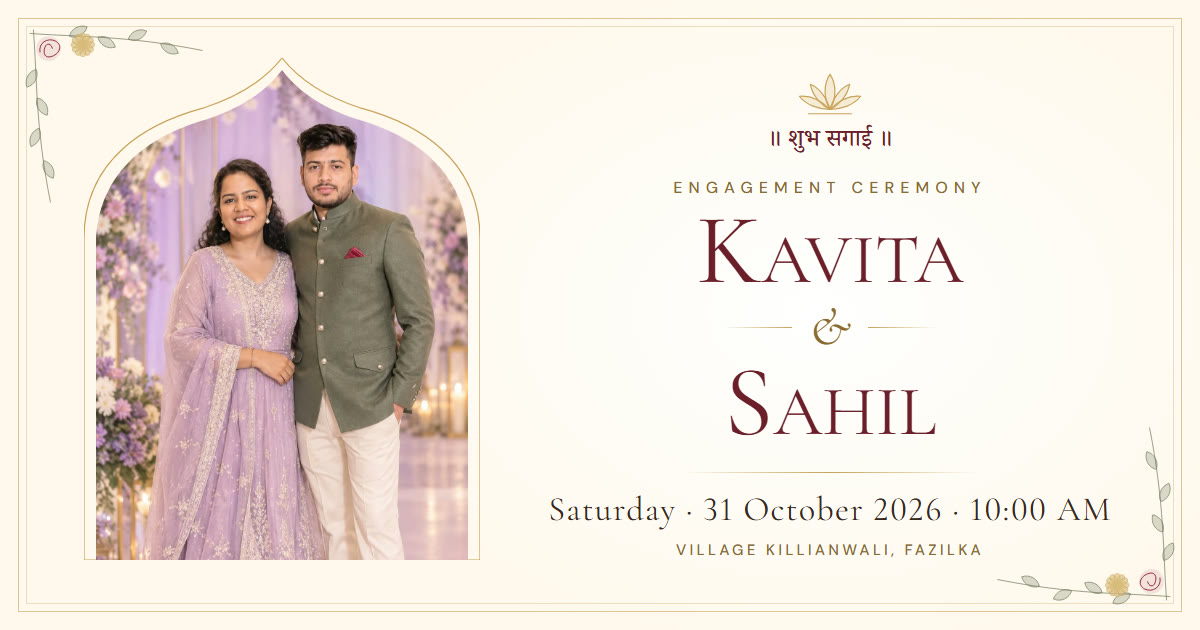
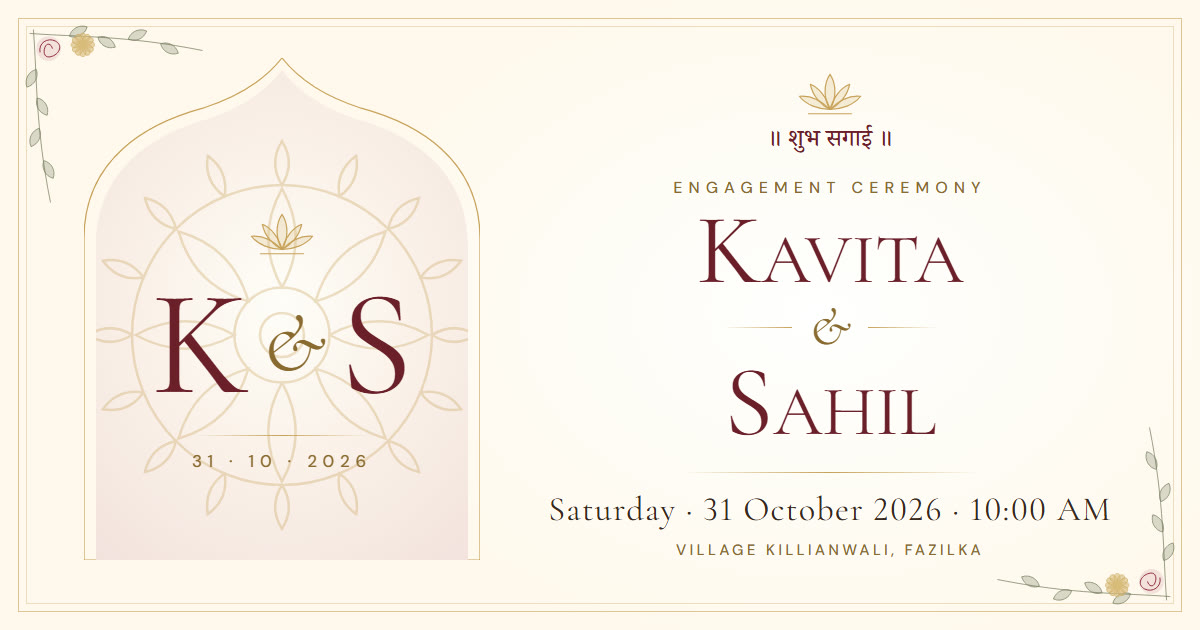
Replace the hero couple photo with a K & S monogram
- Hero arch shows the couple's initials over a slowly turning gold mandala
  with a lotus and the date when hero.image is empty (photo still supported)
- Link-preview image renders the same monogram; hero.jpg removed

Changed region(s): [[0.0617, 0.1206, 0.4008, 0.9048]]

diff --git a/src/components/HeroSection.tsx b/src/components/HeroSection.tsx
@@ -1,6 +1,6 @@
 import { invitation } from "../config/invitation";
 import { getDateParts } from "../lib/event";
-import { ArchFrame, FloralCorner, LeafBranch, Paisley } from "./decor";
+import { ArchFrame, FloralCorner, LeafBranch, Lotus, Mandala, Paisley } from "./decor";
 import { SmartImage } from "./SmartImage";
 
 const d = (ms: number) => ({ "--d": `${ms}ms` }) as React.CSSProperties;
@@ -46,16 +46,33 @@ export function HeroSection() {
           <Paisley className="hero__paisley hero__paisley--l" />
           <Paisley className="hero__paisley hero__paisley--r" />
           <ArchFrame className="hero__arch">
-            <div className="hero__photo">
-              <SmartImage
-                src={hero.image}
-                position={hero.imagePosition}
-                alt={`${bride.name} and ${groom.name}`}
-                label="The couple"
-                priority
-                sizes="(min-width: 1024px) 460px, 80vw"
-              />
-            </div>
+            {hero.image ? (
+              <div className="hero__photo">
+                <SmartImage
+                  src={hero.image}
+                  position={hero.imagePosition}
+                  alt={`${bride.name} and ${groom.name}`}
+                  label="The couple"
+                  priority
+                  sizes="(min-width: 1024px) 460px, 80vw"
+                />
+              </div>
+            ) : (
+              /* No photo: the couple's initials as a monogram, like the crest on a printed card */
+              <div className="monogram" role="img" aria-label={`${bride.name} and ${groom.name}`}>
+                <Mandala className="monogram__mandala" />
+                <Lotus className="monogram__lotus" filled />
+                <span className="monogram__initials" aria-hidden="true">
+                  <span>{bride.name.trim().charAt(0)}</span>
+                  <span className="monogram__amp">&amp;</span>
+                  <span>{groom.name.trim().charAt(0)}</span>
+                </span>
+                <span className="monogram__rule" aria-hidden="true" />
+                <span className="monogram__date" aria-hidden="true">
+                  {date.dayNumber.padStart(2, "0")} · {String(Number(event.date.split("-")[1])).padStart(2, "0")} · {date.year}
+                </span>
+              </div>
+            )}
           </ArchFrame>
           <LeafBranch className="hero__branch" />
         </div>

diff --git a/src/index.css b/src/index.css
@@ -943,6 +943,78 @@ html.is-revealed .hero__arch {
   position: absolute;
   inset: 0;
 }
+/* Monogram shown in the hero arch when there's no couple photo */
+.monogram {
+  position: absolute;
+  inset: 0;
+  display: flex;
+  flex-direction: column;
+  align-items: center;
+  justify-content: center;
+  padding-top: 12%;
+  overflow: hidden;
+  background:
+    var(--jaali),
+    radial-gradient(ellipse 80% 70% at 50% 48%, #fffdf9 0%, #fbf1ea 45%, #f3e1dd 100%);
+}
+.monogram__mandala {
+  position: absolute;
+  top: 54%;
+  left: 50%;
+  width: 118%;
+  height: auto;
+  opacity: 0.32;
+  transform: translate(-50%, -50%);
+  animation: monogram-spin 180s linear infinite;
+}
+@keyframes monogram-spin {
+  to {
+    transform: translate(-50%, -50%) rotate(360deg);
+  }
+}
+.monogram__lotus {
+  position: relative;
+  width: clamp(54px, 16%, 76px);
+  height: auto;
+  margin-bottom: 6px;
+}
+.monogram__initials {
+  position: relative;
+  display: flex;
+  align-items: center;
+  gap: 0.12em;
+  font-family: var(--font-display);
+  font-size: clamp(4.6rem, 21vw, 8rem);
+  font-weight: 400;
+  line-height: 1;
+  color: var(--maroon);
+}
+.monogram__amp {
+  font-size: 0.55em;
+  font-style: italic;
+  color: var(--gold-ink);
+  transform: translateY(0.08em);
+}
+.monogram__rule {
+  position: relative;
+  width: 46%;
+  height: 1px;
+  margin: 14px 0 12px;
+  background: linear-gradient(90deg, transparent, var(--gold), transparent);
+}
+.monogram__date {
+  position: relative;
+  font-size: clamp(11px, 3vw, 13px);
+  font-weight: 500;
+  letter-spacing: 0.34em;
+  color: var(--gold-ink);
+  font-variant-numeric: lining-nums;
+}
+@media (prefers-reduced-motion: reduce) {
+  .monogram__mandala {
+    animation: none;
+  }
+}
 .hero__photo::after {
   content: "";
   position: absolute;

diff --git a/src/config/invitation.ts b/src/config/invitation.ts
@@ -53,8 +53,9 @@ export const invitation = {
   },
 
   hero: {
-    image: "/images/hero.jpg", // the couple together
-    /** Part of the photo kept in view inside the arch: "50% 0%" keeps the top so heads aren't cut. */
+    /** Optional photo for the big arch at the top. Empty = a K & S monogram with a gold mandala instead.
+     *  To use a photo, e.g. "/images/hero.jpg" (and imagePosition "50% 0%" keeps heads in view). */
+    image: "",
     imagePosition: "50% 0%",
   },
 
